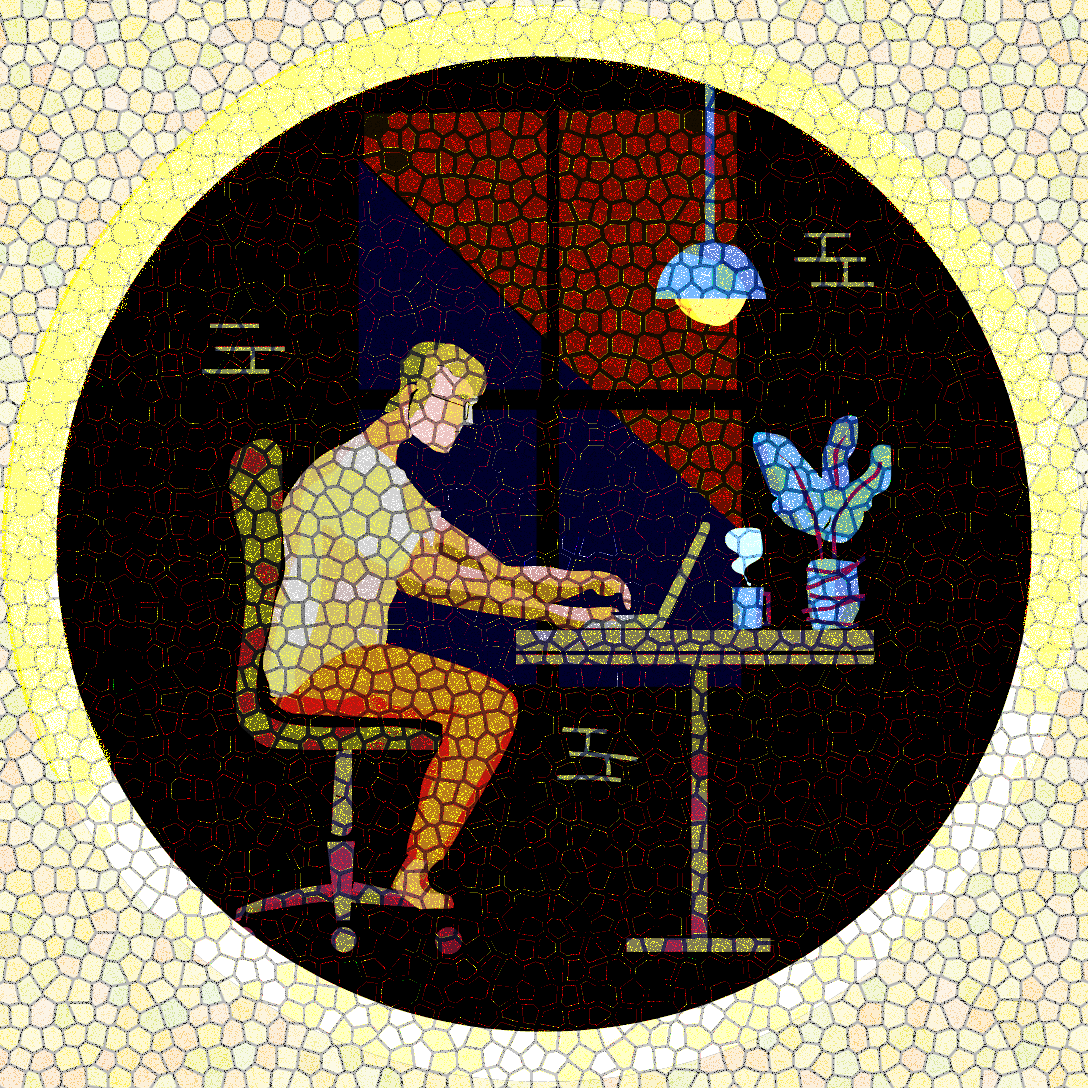
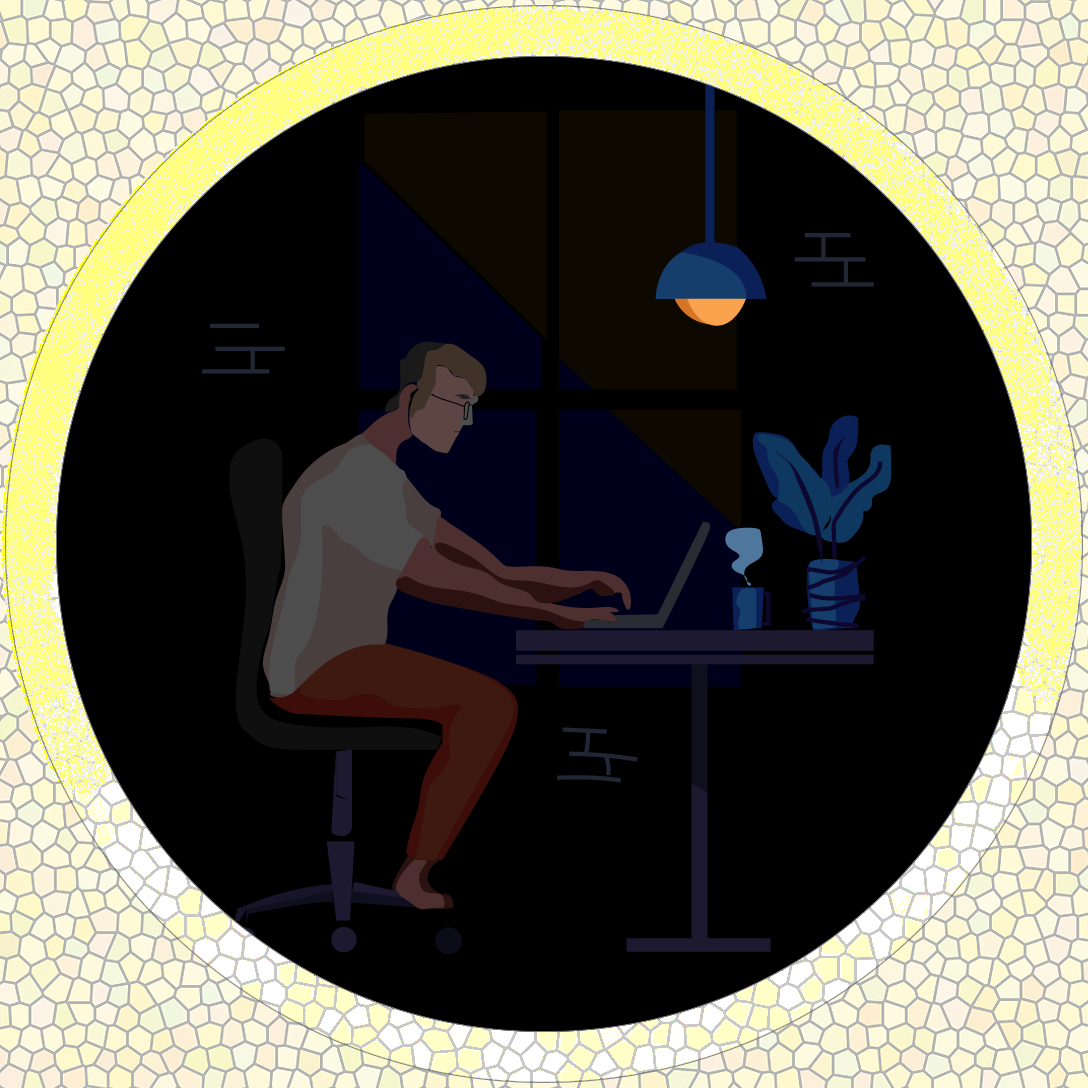
update image and head.html

diff --git a/_includes/head.html b/_includes/head.html
@@ -10,7 +10,7 @@
 <!-- Open Graph meta tags -->
 <meta property="og:title" content="TonyleeKorea Project Documentation">
 <meta property="og:description" content="Showcasing my works and blogs">
-<meta property="og:image" content="images/tonyillust_atwork.-stainedglass.png">
+<meta property="og:image" content="images/tonyillust_atwork.png">
 <meta property="og:url" content="https://pf7.eggs.or.kr/index.html">
 <meta property="og:type" content="website">
 <!-- Add more Open Graph tags as needed -->
